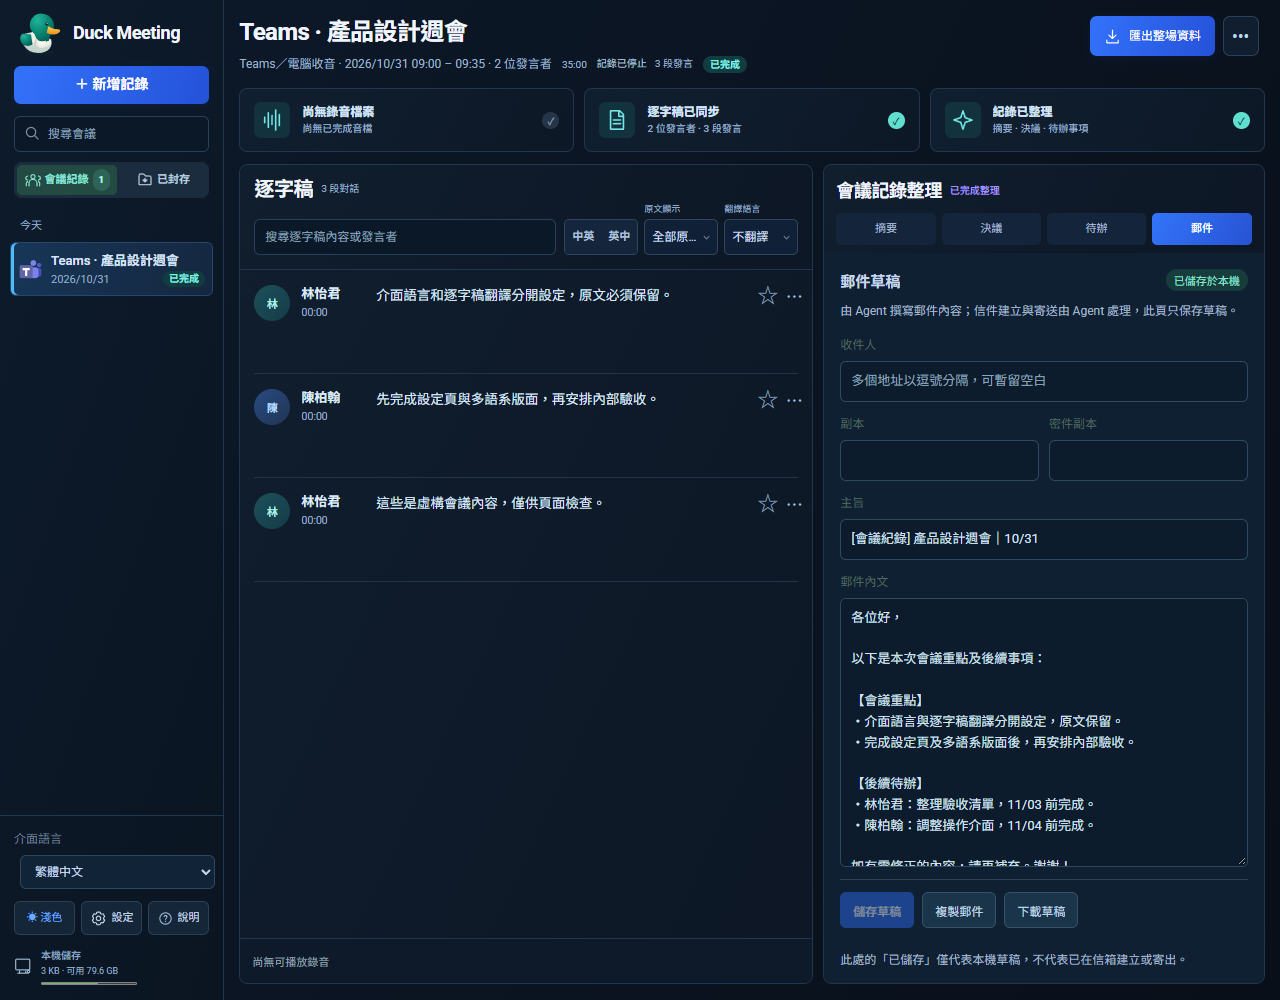
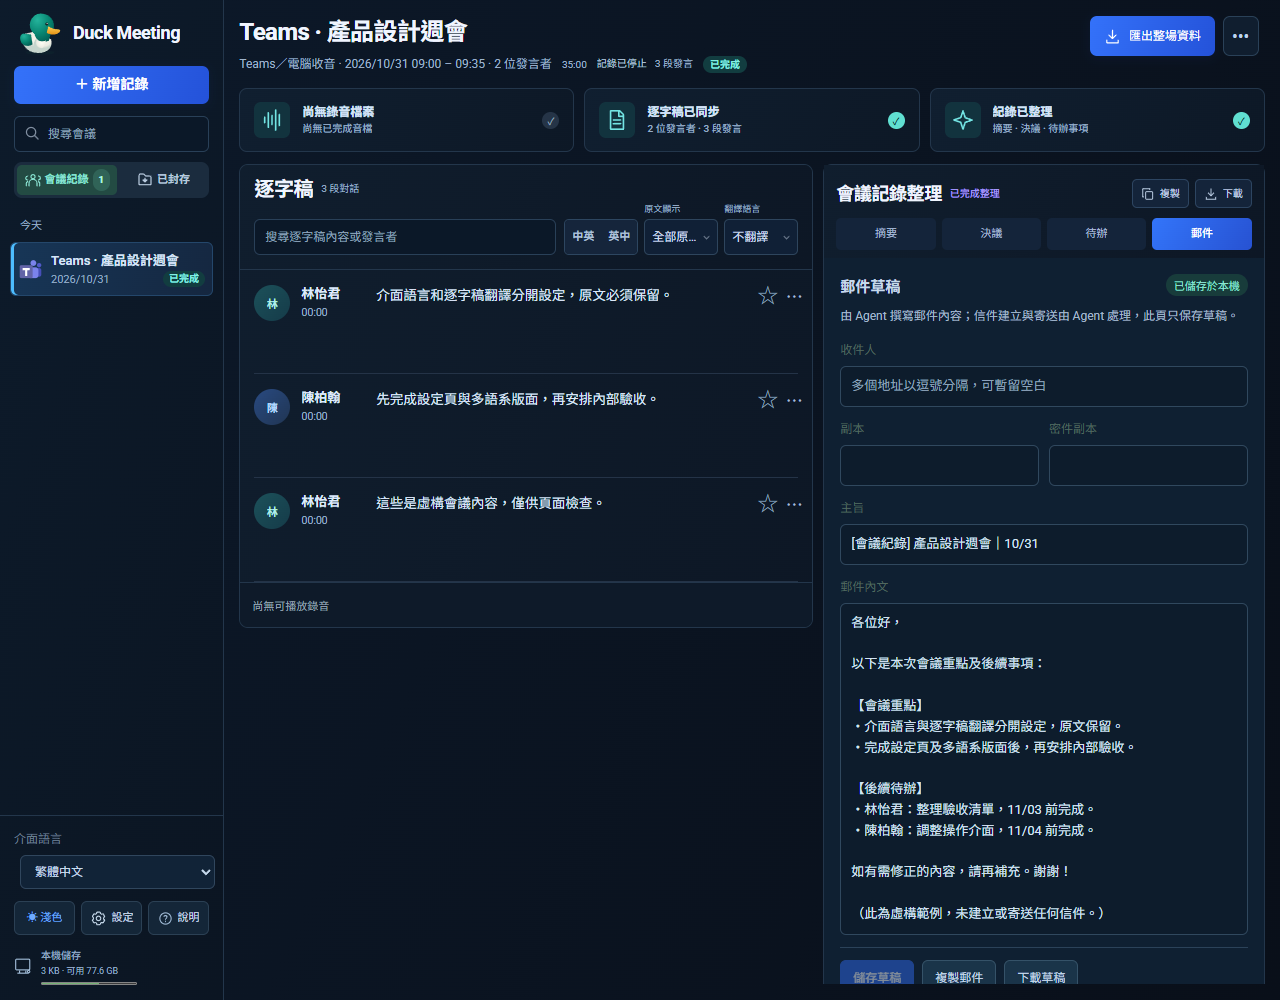
fix: stabilize mail tab controls and remove nested notes scrolling

diff --git a/test/qa/mail-draft.test.js b/test/qa/mail-draft.test.js
@@ -2,14 +2,23 @@ import {test} from 'node:test';import assert from 'node:assert/strict';import fs
 function seed(app,id='mail'){const dir=app.seed(id,{state:'done',title:'郵件測試'},[record('原始會議內容')]);fs.writeFileSync(path.join(dir,'summary.md'),'# 郵件測試\n\n## 會議摘要\n\n原文不可更動。\n');return dir;}
 test('MAIL-API source/revision validation, exact scope and same-origin boundary',async t=>{const app=await fixture();t.after(()=>app.close());const dir=seed(app);const get=()=>readMailDraft(dir);const post=(body,origin=app.url)=>fetch(app.url+'/api/mail-draft',{method:'POST',headers:{Origin:origin,'Content-Type':'application/json'},body:JSON.stringify(body)});const input={id:'mail',subject:'Subject',body:'Original notes only.',to:[],cc:[],bcc:[],sourceRevision:get().sourceRevision,expectedRevision:null};assert.equal((await post(input,'https://evil.example')).status,403);assert.equal((await post({...input,id:'latest'})).status,400);assert.equal((await post({...input,id:'../outside'})).status,404);assert.equal((await post({...input,to:['bad']})).status,400);assert.equal((await post(input)).status,200);const conflict=await post(input);assert.equal(conflict.status,200);assert.deepEqual(await conflict.json(),{ok:false,error:'mail_conflict'});assert.equal(get().draft.subject,'Subject');});
 for(const width of [1280,390])for(const theme of ['light','dark'])test(`MAIL-UI edit save copy download and source privacy ${width} ${theme}`,{timeout:25000},t=>browserCase(t,async({page,context,app,dir})=>{
- const folder=seed(app);const original=fs.readFileSync(path.join(folder,'summary.md'),'utf8');await context.grantPermissions(['clipboard-read','clipboard-write']);await page.addInitScript(theme=>localStorage.setItem('duck-meeting:theme',theme),theme);await page.goto(app.url+'/?id=mail&primary=all&secondary=none');await page.getByText('原文不可更動。',{exact:true}).waitFor();await page.getByRole('button',{name:'郵件',exact:true}).click();
- const panel=page.getByRole('region',{name:'郵件草稿',exact:true});await panel.waitFor();assert.equal(await page.getByRole('button',{name:'建立信件草稿',exact:true}).count(),0);
+ const folder=seed(app);const original=fs.readFileSync(path.join(folder,'summary.md'),'utf8');await context.grantPermissions(['clipboard-read','clipboard-write']);await page.addInitScript(theme=>localStorage.setItem('duck-meeting:theme',theme),theme);await page.goto(app.url+'/?id=mail&primary=all&secondary=none');await page.getByText('原文不可更動。',{exact:true}).waitFor();
+ const controls=()=>page.evaluate(()=>[...document.querySelectorAll('[data-notes-tab],#notes-copy,#notes-download')].map(b=>{const r=b.getBoundingClientRect();return [r.x,r.y,r.width,r.height];}));const baseline=await controls();
+ for(const name of ['決議','待辦','郵件','摘要','郵件']){await page.getByRole('button',{name,exact:true}).click();assert.deepEqual(await controls(),baseline,'Notes controls must not move on tab switch');}
+
+ const panel=page.getByRole('region',{name:'郵件草稿',exact:true});await panel.waitFor();
+ for(const name of ['儲存草稿','複製郵件','下載草稿']){const metrics=await panel.getByRole('button',{name,exact:true}).evaluate(button=>{const box=button.getBoundingClientRect(),range=document.createRange();range.selectNodeContents(button);const text=range.getBoundingClientRect();return {height:box.height,offset:Math.abs((text.top+text.bottom-box.top-box.bottom)/2),align:getComputedStyle(button).alignItems};});assert.equal(metrics.align,'center');assert.ok(metrics.height>=36);assert.ok(metrics.offset<=3,JSON.stringify(metrics));}
+assert.equal(await page.getByRole('button',{name:'建立信件草稿',exact:true}).count(),0);
  await panel.getByRole('textbox',{name:'主旨',exact:true}).fill('會議紀錄 1357');await panel.getByRole('textbox',{name:'收件人',exact:true}).fill('recipient@example.com');await panel.getByRole('textbox',{name:'郵件內文',exact:true}).fill('各位好，原文 <script>alert(1)</script> 保留。');await panel.getByRole('button',{name:'儲存草稿',exact:true}).click();await panel.getByText('草稿已儲存，尚未建立或寄送信件。',{exact:true}).waitFor();
- await panel.getByRole('button',{name:'複製郵件',exact:true}).click();assert.match(await page.evaluate(()=>navigator.clipboard.readText()),/Subject: 會議紀錄 1357/);const downloading=page.waitForEvent('download');await panel.getByRole('button',{name:'下載草稿',exact:true}).click();assert.equal((await downloading).suggestedFilename(),'mail-mail-draft.txt');
+ await panel.getByRole('button',{name:'複製郵件',exact:true}).click();assert.match(await page.evaluate(()=>navigator.clipboard.readText()),/Subject: 會議紀錄 1357/);await page.getByRole('button',{name:'複製',exact:true}).click();assert.match(await page.evaluate(()=>navigator.clipboard.readText()),/Subject: 會議紀錄 1357/);const downloading=page.waitForEvent('download');await panel.getByRole('button',{name:'下載草稿',exact:true}).click();assert.equal((await downloading).suggestedFilename(),'mail-mail-draft.txt');
  await page.reload();await page.getByRole('button',{name:'郵件',exact:true}).click();assert.equal(await panel.getByRole('textbox',{name:'主旨',exact:true}).inputValue(),'會議紀錄 1357');
  await panel.getByRole('textbox',{name:'郵件內文',exact:true}).fill('User edit must survive polling.');const current=readMailDraft(folder);saveMailDraft(folder,{subject:'Agent revision',body:'Agent content',to:[],cc:[],bcc:[],sourceRevision:current.sourceRevision,expectedRevision:current.revision},{actor:'agent'});
  await panel.getByRole('button',{name:'儲存草稿',exact:true}).click();await panel.getByText('草稿或來源已更新；編輯已保留，請先複製內容再重新核對。',{exact:true}).waitFor();assert.equal(await panel.getByRole('textbox',{name:'郵件內文',exact:true}).inputValue(),'User edit must survive polling.');
- assert.equal(fs.readFileSync(path.join(folder,'summary.md'),'utf8'),original);await page.screenshot({path:dir+'/mail.png',fullPage:true});
+ assert.equal(fs.readFileSync(path.join(folder,'summary.md'),'utf8'),original);
+ await panel.getByRole('textbox',{name:'郵件內文',exact:true}).fill('長篇會議郵件內容\n'.repeat(80));
+ await page.waitForFunction(()=>{const body=document.getElementById('mail-body');return body.clientHeight>=body.scrollHeight;});
+ const scroll=await panel.evaluate(panel=>({height:panel.clientHeight,content:panel.scrollHeight,overflow:getComputedStyle(panel).overflowY}));assert.equal(scroll.overflow,'visible');assert.ok(scroll.content<=scroll.height+2,JSON.stringify(scroll));
+ await page.screenshot({path:dir+'/mail.png',fullPage:true});
 },{viewport:{width,height:900}}));
 
 

diff --git a/src/live/workspace.js b/src/live/workspace.js
@@ -30,7 +30,7 @@
   function renderNotes(data){
     const sum=data?.summary||{},ready=sum.state==='ready'&&!!sum.markdown;
     for(const button of document.querySelectorAll('[data-notes-tab]'))button.setAttribute('aria-pressed',String(button.dataset.notesTab===tab));
-    const mail=tab==='mail';$('mail-panel').hidden=!mail;$('summary-body').hidden=mail||summaryCollapsed;document.getElementsByClassName('comparison-panel')[0].hidden=mail;$('notes-copy').hidden=$('notes-download').hidden=mail;
+    const mail=tab==='mail';$('mail-panel').hidden=!mail;$('summary-body').hidden=mail||summaryCollapsed;document.getElementsByClassName('comparison-panel')[0].hidden=mail;$('notes-copy').hidden=$('notes-download').hidden=false;
     if(mail){for(const button of document.querySelectorAll('[data-notes-tab]')){const key=button.dataset.notesTab;button.textContent=uiText(key==='mail'?'郵件':key==='actions'?'待辦':key==='decisions'?'決議':'摘要');button.setAttribute('aria-label',button.textContent);}notesSignature='';return;}
     $('notes-copy').disabled=$('notes-download').disabled=!ready;
     const key=JSON.stringify([data?.id,sum.state,sum.markdown,sum.updatedAt,tab,data?.workspace?.actions]);
@@ -135,8 +135,8 @@
   document.addEventListener('workspace-rendered',event=>render(event.detail));
   document.addEventListener('workspace-empty',()=>{current=null;render({records:[],workspace:{}});});
   document.querySelectorAll('[data-notes-tab]').forEach(button=>button.addEventListener('click',()=>{tab=button.dataset.notesTab;const url=new URL(location.href);url.searchParams.set('notes',tab);history.replaceState(null,'',url);document.querySelectorAll('[data-notes-tab]').forEach(b=>b.setAttribute('aria-pressed',String(b===button)));renderNotes(current);}));
-  $('notes-copy').addEventListener('click',async()=>{try{await navigator.clipboard.writeText(current.summary.markdown);message(uiText('已複製會議紀錄'));}catch{message(uiText('無法存取剪貼簿，請使用下載會議紀錄。'));}});
-  $('notes-download').addEventListener('click',()=>{if(current?.summary?.markdown)saveFile(current.summary.markdown,current.id+'-summary.md');});
+  $('notes-copy').addEventListener('click',async()=>{if(tab==='mail'){$('mail-copy').click();return;}try{await navigator.clipboard.writeText(current.summary.markdown);message(uiText('已複製會議紀錄'));}catch{message(uiText('無法存取剪貼簿，請使用下載會議紀錄。'));}});
+  $('notes-download').addEventListener('click',()=>{if(tab==='mail'){$('mail-download').click();return;}if(current?.summary?.markdown)saveFile(current.summary.markdown,current.id+'-summary.md');});
   $('workspace-export').addEventListener('click',()=>{if(current?.id)exportMeeting(current.id);});
   $('archive-current').addEventListener('click',()=>{$('meeting-menu').open=false;if(current?.id)void performMeetingAction(current.id,current.status.state==='archived'?'unarchive':'archive');});
   $('rename-meeting').addEventListener('click',()=>{if(!current)return;$('meeting-menu').open=false;renameMeetingId=current.id;$('rename-input').value=current.workspace.title;$('rename-error').textContent='';$('rename-dialog').showModal();$('rename-input').focus();});

diff --git a/src/live/mail.js b/src/live/mail.js
@@ -8,13 +8,15 @@
  const snapshot=()=>({to:split($('mail-to').value),cc:split($('mail-cc').value),bcc:split($('mail-bcc').value),subject:$('mail-subject').value.trim(),body:$('mail-body').value});
  const text=draft=>[(draft.to.length?'To: '+draft.to.join(', '):'To: (not specified)'),...(draft.cc.length?['Cc: '+draft.cc.join(', ')]:[]),...(draft.bcc.length?['Bcc: '+draft.bcc.join(', ')]:[]),'Subject: '+draft.subject,'',draft.body].join('\n');
  function valid(draft){if(!draft.subject||/[\r\n\0]/.test(draft.subject)||!draft.body.trim())return false;return [...draft.to,...draft.cc,...draft.bcc].every(address=>(/^[^\s<>@,;]+@[^\s<>@,;]+\.[^\s<>@,;]+$/).test(address));}
+ function fitBody(){const field=$('mail-body');if(!field.getClientRects().length)return;field.style.height='auto';field.style.height=(field.scrollHeight+2)+'px';}
  function render(){
-  const info=current?.mailDraft||{},hasText=valid(snapshot());
+  const info=current?.mailDraft||{},hasText=valid(snapshot());requestAnimationFrame(fitBody);
   $('mail-empty').hidden=!!info.draft;
   $('mail-state').textContent=uiText(busy?'正在儲存…':dirty?'尚未儲存':info.draft?'已儲存於本機':'尚未產生');
   $('mail-stale').hidden=!(info.stale||(dirty&&baseSource!==info.sourceRevision));
   $('mail-save').disabled=busy||!dirty||!info.available||!hasText;
   $('mail-copy').disabled=$('mail-download').disabled=busy||!hasText;
+  if(document.querySelector('[data-notes-tab=mail]').getAttribute('aria-pressed')==='true')$('notes-copy').disabled=$('notes-download').disabled=busy||!hasText;
   for(const name of fields)$('mail-'+name).disabled=busy||!info.available;
   $('mail-feedback').textContent=warning?uiText(warning):!info.available?uiText(info.error?'無法讀取郵件草稿，請保留檔案並檢查。':'請先完成會議紀錄整理，再撰寫郵件草稿。'):'';
  }
@@ -39,7 +41,9 @@
  });
  $('mail-copy').addEventListener('click',async()=>{if(!valid(snapshot()))return;try{await navigator.clipboard.writeText(text(snapshot()));warning='已複製郵件內容。';}catch{warning='無法存取剪貼簿，請下載草稿。';}render();});
  $('mail-download').addEventListener('click',()=>{if(!valid(snapshot()))return;const url=URL.createObjectURL(new Blob([text(snapshot())],{type:'text/plain;charset=utf-8'})),a=document.createElement('a');a.href=url;a.download=(current?.id||'meeting')+'-mail-draft.txt';a.click();URL.revokeObjectURL(url);warning='已下載郵件草稿。';render();});
+ window.addEventListener('resize',fitBody);
  window.addEventListener('beforeunload',event=>{if(dirty||unsaved.size){event.preventDefault();event.returnValue='';}});
  document.addEventListener('mail-meeting',event=>receive(event.detail));
  document.addEventListener('ui-language-change',render);
+ document.querySelector('[data-notes-tab=mail]').addEventListener('click',render);
 })();

diff --git a/src/live/emerald.css b/src/live/emerald.css
@@ -379,7 +379,7 @@ html:not([lang=zh-Hant]) .pane-transcript>.pane-header{grid-template-rows:auto 3
 #mail-form input{min-height:36px}#mail-form textarea{min-height:220px;resize:vertical}
 .mail-recipient-grid{display:grid;grid-template-columns:1fr 1fr;gap:10px}
 .mail-actions{display:flex;align-items:center;gap:8px;flex-wrap:wrap;padding:12px 0;border-top:1px solid #dce6ed}
-.mail-actions button{min-height:36px;padding:8px 12px;font-size:12px;border:1px solid #d3e1e6;border-radius:6px;background:#f3f8f6;color:#226e5d}
+.mail-actions button{display:inline-flex;align-items:center;justify-content:center;box-sizing:border-box;min-height:36px;padding:7px 12px;line-height:20px;margin:0;text-align:center;font-size:12px;border:1px solid #d3e1e6;border-radius:6px;background:#f3f8f6;color:#226e5d}
 #mail-save{background:#008572;color:#fff;border-color:#008572}
 :root[data-theme=dark] .mail-panel{background:#0f2032;color:#c7daec}
 :root[data-theme=dark] #mail-form input,:root[data-theme=dark] #mail-form textarea{background:#0d1c2c;color:#d3e4f3;border-color:#30485e}
@@ -391,4 +391,9 @@ html:not([lang=zh-Hant]) .pane-transcript>.pane-header{grid-template-rows:auto 3
 :root[data-theme=dark] #mail-stale{background:#3a321e;color:#f2d797}
 @media(max-width:520px){.mail-panel{padding:12px}.mail-recipient-grid{grid-template-columns:1fr}.mail-actions button{flex:1;padding-inline:6px}}
 
-.summary-actions:has(#notes-copy[hidden]):has(#notes-download[hidden]){display:none!important}
+/* One workspace scroll surface; notes and mail expand without nested scrollbars. */
+main{overflow-y:auto;overflow-x:hidden}
+.workspace-grid{flex:none;overflow:visible;align-items:start}
+#summary-panel{overflow:visible;min-height:0;height:auto}
+#summary-panel>.pane-body{flex:none;max-height:none;overflow:visible}
+#mail-form textarea{overflow-y:hidden;resize:none;min-height:220px}

diff --git a/docs/qa/reports/mail-drafts-20261031.md b/docs/qa/reports/mail-drafts-20261031.md
@@ -48,3 +48,13 @@ Two unit + QA runs passed: 692 tests / 676 passed / 0 failed / 16 existing BUG-0
 Additional integration run: 81 tests, 72 passed, 4 failed, 5 existing environment/opt-in skips. All four failures were `spawnSync powershell.exe ENOENT` caused by the invocation PATH, not changed product logic. With Windows PowerShell on PATH, the entire Chrome-launch file passed 7/7 and the TTS/STT file passed 1/1 (`test-mail-release-chrome.log`, `test-mail-release-stt.log`). All failed cases therefore passed targeted replay; the full integration suite was not rerun afterward. Use the normal Windows shell PATH (including WindowsPowerShell/v1.0) when running it.
 
 Included earlier UI changes: vertically centered notes tabs, plain utterance overflow button, and wider highlighted utterance background. Design evidence uses synthetic content. Private meeting folders, recordings, local mail drafts, browser profiles and model files are excluded from this commit. No real mailbox creation or sending was tested.
+
+
+## Stable tab controls follow-up
+
+Mail keeps the shared header copy/download toolbar in place and delegates these actions to the current mail draft. Switching overview/decisions/actions/mail retains exact control rectangles in desktop/mobile and both themes. Mail button text is flex-centered. Browser/API/integrity replay: 13 passed, zero failures/skips (29.7 s).
+
+
+## Single-scroll notes layout
+
+The workspace owns vertical scrolling; notes/mail panels expand naturally without independent overflow. Mail body height follows its text and viewport width. An 80-line input was verified without textarea or mail-panel overflow at 1280/390 in light/dark; existing control-position and mail functionality checks still pass. Browser/API/integrity replay: 13 passed, zero failures/skips (29.8 s).

diff --git a/TEST_SUMMARY.md b/TEST_SUMMARY.md
@@ -119,3 +119,8 @@ Two unit + QA runs passed: 692 tests / 676 passed / 0 failed / 16 existing BUG-0
 Additional integration run: 81 tests, 72 passed, 4 failed, 5 existing environment/opt-in skips. All four failures were `spawnSync powershell.exe ENOENT` caused by the invocation PATH, not changed product logic. With Windows PowerShell on PATH, the entire Chrome-launch file passed 7/7 and the TTS/STT file passed 1/1 (`test-mail-release-chrome.log`, `test-mail-release-stt.log`). All failed cases therefore passed targeted replay; the full integration suite was not rerun afterward. Use the normal Windows shell PATH (including WindowsPowerShell/v1.0) when running it.
 
 Included earlier UI changes: vertically centered notes tabs, plain utterance overflow button, and wider highlighted utterance background. Design evidence uses synthetic content. Private meeting folders, recordings, local mail drafts, browser profiles and model files are excluded from this commit. No real mailbox creation or sending was tested.
+
+
+## Mail layout release follow-up — 2026-10-31
+
+Final browser/API/integrity replay: **13 passed, 0 failed, 0 skipped**, 37.9 s (`test-mail-layout-release.log`). Covers centered action labels, stable tab/header geometry, shared mail copy, and 80-line mail expansion without inner scrollbars across desktop/mobile and both themes. This focused layout validation supplements the prior 692-case regression; it is not a new full-suite run. README and synthetic screenshots updated.

diff --git a/README.md b/README.md
@@ -433,3 +433,5 @@ Open **Meeting notes → Email** after the Agent finishes the meeting notes. Aft
 When you ask the Agent to create or send an email, it reads this exact meeting using `node bin/openmeeting.js mail-draft <ID> --json`, then uses its connected mailbox tools within your instruction. It must confirm missing recipients rather than infer addresses from speaker names. No Ollama or extra summary model API is used.
 
 For Agent updates, save UTF-8 JSON with `to`, `cc`, `bcc` arrays, `subject`, `body`, and the returned `expectedRevision` (the current `revision`, initially null) and `sourceRevision`; run `node bin/openmeeting.js mail-draft <ID> --file <absolute-json-path> --json`. The returned fields live under `draft`. Thread ownership is enforced where the meeting has an owner. Canonical content is stored in `mail-draft.json`, with a readable `mail-draft.md` companion. Version conflicts preserve your edits; copy them before reloading and reconciling. Changed meeting notes mark the saved draft as stale. Existing notes and transcripts remain unchanged. Mailbox creation/sending requires a connected mail service and separate user instruction; it has not been exercised against a real mailbox in this implementation.
+
+The notes header and tabs keep their positions when switching to Email. Shared Copy/Download actions follow the selected tab. Notes expand in the workspace scroll area, and the email body grows with its content to avoid nested notes-panel/textbox scrollbars.

diff --git a/README.en.md b/README.en.md
@@ -12,3 +12,5 @@ Open **Meeting notes → Email** after the Agent finishes the meeting notes. Aft
 When you ask the Agent to create or send an email, it reads this exact meeting using `node bin/openmeeting.js mail-draft <ID> --json`, then uses its connected mailbox tools within your instruction. It must confirm missing recipients rather than infer addresses from speaker names. No Ollama or extra summary model API is used.
 
 For Agent updates, save UTF-8 JSON with `to`, `cc`, `bcc` arrays, `subject`, `body`, and the returned `expectedRevision` (the current `revision`, initially null) and `sourceRevision`; run `node bin/openmeeting.js mail-draft <ID> --file <absolute-json-path> --json`. The returned fields live under `draft`. Thread ownership is enforced where the meeting has an owner. Canonical content is stored in `mail-draft.json`, with a readable `mail-draft.md` companion. Version conflicts preserve your edits; copy them before reloading and reconciling. Changed meeting notes mark the saved draft as stale. Existing notes and transcripts remain unchanged. Mailbox creation/sending requires a connected mail service and separate user instruction; it has not been exercised against a real mailbox in this implementation.
+
+The notes header and tabs keep their positions when switching to Email. Shared Copy/Download actions follow the selected tab. Notes expand in the workspace scroll area, and the email body grows with its content to avoid nested notes-panel/textbox scrollbars.
